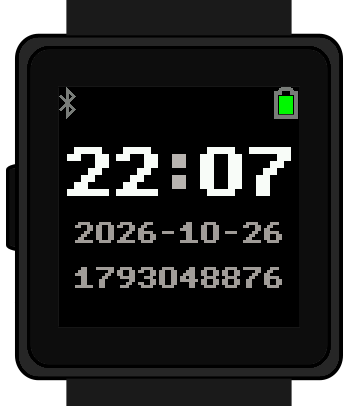
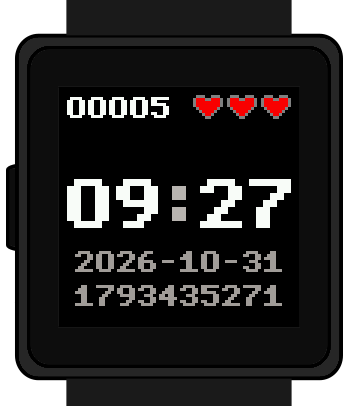
watch_faces: PixelClock: Show steps as score and battery as lives
Replace the status bar with an 8-bit game header: the step count as a
five digit score at the top left, and the battery as three hearts at
the top right, filled in quarters. Below half a heart, the remaining
heart blinks every second, unless the watch is charging.

The time moves down to the middle of the screen, with the date and the
epoch close together below it.

Changed region(s): [[0.1844, 0.3547, 0.8296, 0.7685], [0.1536, 0.2069, 0.4916, 0.2956], [0.5223, 0.2069, 0.8296, 0.2956]]

diff --git a/watch_faces/pixel_clock.py b/watch_faces/pixel_clock.py
@@ -5,7 +5,9 @@
 ~~~~~~~~~~~~~~~~~~~~~~~~~~~~~~~~~
 
 Shows a time (as HH:MM), the date (as YYYY-MM-DD) and the Unix epoch, all
-in a blocky 8-bit style, together with a battery meter.
+in a blocky 8-bit style. Like in an 8-bit game, the step count is the score
+at the top left and the battery is three lives at the top right, in quarter
+hearts. Below half a heart, the remaining heart blinks.
 
 The watch only keeps local time, so the epoch assumes Dutch time: UTC+1,
 and UTC+2 from the last Sunday of March to the last Sunday of October.
@@ -31,6 +33,20 @@ GLYPHS = (
     b'\x1e\x33\x33\x1f\x03\x06\x1c'  # 9
     b'\x00\x00\x00\x1e\x00\x00\x00'  # -
 )
+
+# A heart: o is the border, r the inside, which empties from the right
+HEART = (
+    '.ooo..ooo.',
+    'orrroorrro',
+    'orrrrrrrro',
+    'orrrrrrrro',
+    '.orrrrrro.',
+    '..orrrro..',
+    '...orro...',
+    '....oo....',
+)
+GREY = 0x8410
+RED = 0xf800
 
 def _days(y, m, d):
     """Days since 1970-01-01 (Howard Hinnant's days_from_civil)."""
@@ -64,13 +80,20 @@ def epoch(now):
     return ((_days(now[0], now[1], now[2]) * 24 + now[3] - utc_offset(now))
             * 60 + now[4]) * 60 + now[5]
 
+def _colour(ch, col, quarters):
+    """The colour of one pixel of a heart."""
+    if ch == 'o':
+        return GREY
+    if ch == 'r' and col <= quarters * 2:
+        return RED
+    return 0
+
 class PixelClockApp():
     """Pixel clock application."""
     NAME = 'Pixel'
 
     def foreground(self):
         """Activate the application."""
-        wasp.system.bar.clock = False
         self._draw(True)
         wasp.system.request_tick(1000)
 
@@ -88,7 +111,6 @@ class PixelClockApp():
 
     def preview(self):
         """Provide a preview for the watch face selection."""
-        wasp.system.bar.clock = False
         self._draw(True)
 
     def _glyph(self, c, x, y, scale, fg):
@@ -113,6 +135,39 @@ class PixelClockApp():
             if not old or s[i] != old[i]:
                 self._glyph(s[i], x + i * 7 * scale, y, scale, fg)
 
+    def _heart(self, x, y, quarters):
+        """Draw one heart, filled for the given number of quarters."""
+        draw = wasp.watch.drawable
+        for row in range(8):
+            line = HEART[row]
+            col = 0
+            while col < 10:
+                c = _colour(line[col], col, quarters)
+                run = 1
+                while (col + run < 10 and
+                       _colour(line[col + run], col + run, quarters) == c):
+                    run += 1
+                draw.fill(c, x + col * 3, y + row * 3, run * 3, 3)
+                col += run
+
+    def _lives(self):
+        """Draw the battery as three hearts, blinking when nearly empty."""
+        level = wasp.watch.battery.level()
+        quarters = (level * 12 + 50) // 100
+        # Below half a heart, the remaining heart blinks, except while charging
+        blank = (level * 6 < 100 and not wasp.watch.battery.charging()
+                 and not self._blank)
+        self._blank = blank
+        if (quarters, blank) == self._hearts:
+            return
+        self._hearts = (quarters, blank)
+        for i in range(3):
+            x = 134 + i * 34
+            if i == 0 and blank:
+                wasp.watch.drawable.fill(0, x, 8, 30, 24)
+            else:
+                self._heart(x, 8, min(max(quarters - 4 * i, 0), 4))
+
     def _draw(self, redraw=False):
         """Draw or lazily update the display."""
         draw = wasp.watch.drawable
@@ -122,32 +177,39 @@ class PixelClockApp():
 
         if redraw:
             draw.fill()
-            wasp.system.bar.draw()
             # The colon, two blocks as wide as a stroke, centred between
             # the hours and the minutes
-            draw.fill(lo, 113, 67, 14, 14)
-            draw.fill(lo, 113, 88, 14, 14)
+            draw.fill(lo, 113, 99, 14, 14)
+            draw.fill(lo, 113, 120, 14, 14)
             self._hhmm = self._date = self._epoch = None
-        else:
-            wasp.system.bar.update()
+            self._score = self._hearts = None
+            self._blank = False
+
+        score = '{:05d}'.format(wasp.watch.accel.steps)
+        if self._score and len(score) != len(self._score):
+            self._score = None
+        self._text(score, self._score, 8, 10, 3, hi)
+        self._score = score
+
+        self._lives()
 
         now = wasp.watch.rtc.get_localtime()
 
         hhmm = '{:02d}{:02d}'.format(now[3], now[4])
         if hhmm != self._hhmm:
             self._text(hhmm[:2], self._hhmm and self._hhmm[:2],
-                       8, 60, 7, hi)
+                       8, 92, 7, hi)
             self._text(hhmm[2:], self._hhmm and self._hhmm[2:],
-                       141, 60, 7, hi)
+                       141, 92, 7, hi)
             self._hhmm = hhmm
 
         date = '{}-{:02d}-{:02d}'.format(now[0], now[1], now[2])
         if date != self._date:
-            self._text(date, self._date, 16, 135, 3, dim)
+            self._text(date, self._date, 16, 164, 3, dim)
             self._date = date
 
         e = str(epoch(now))
         if self._epoch and len(e) != len(self._epoch):
             self._epoch = None
-        self._text(e, self._epoch, 16, 180, 3, dim)
+        self._text(e, self._epoch, 16, 198, 3, dim)
         self._epoch = e
